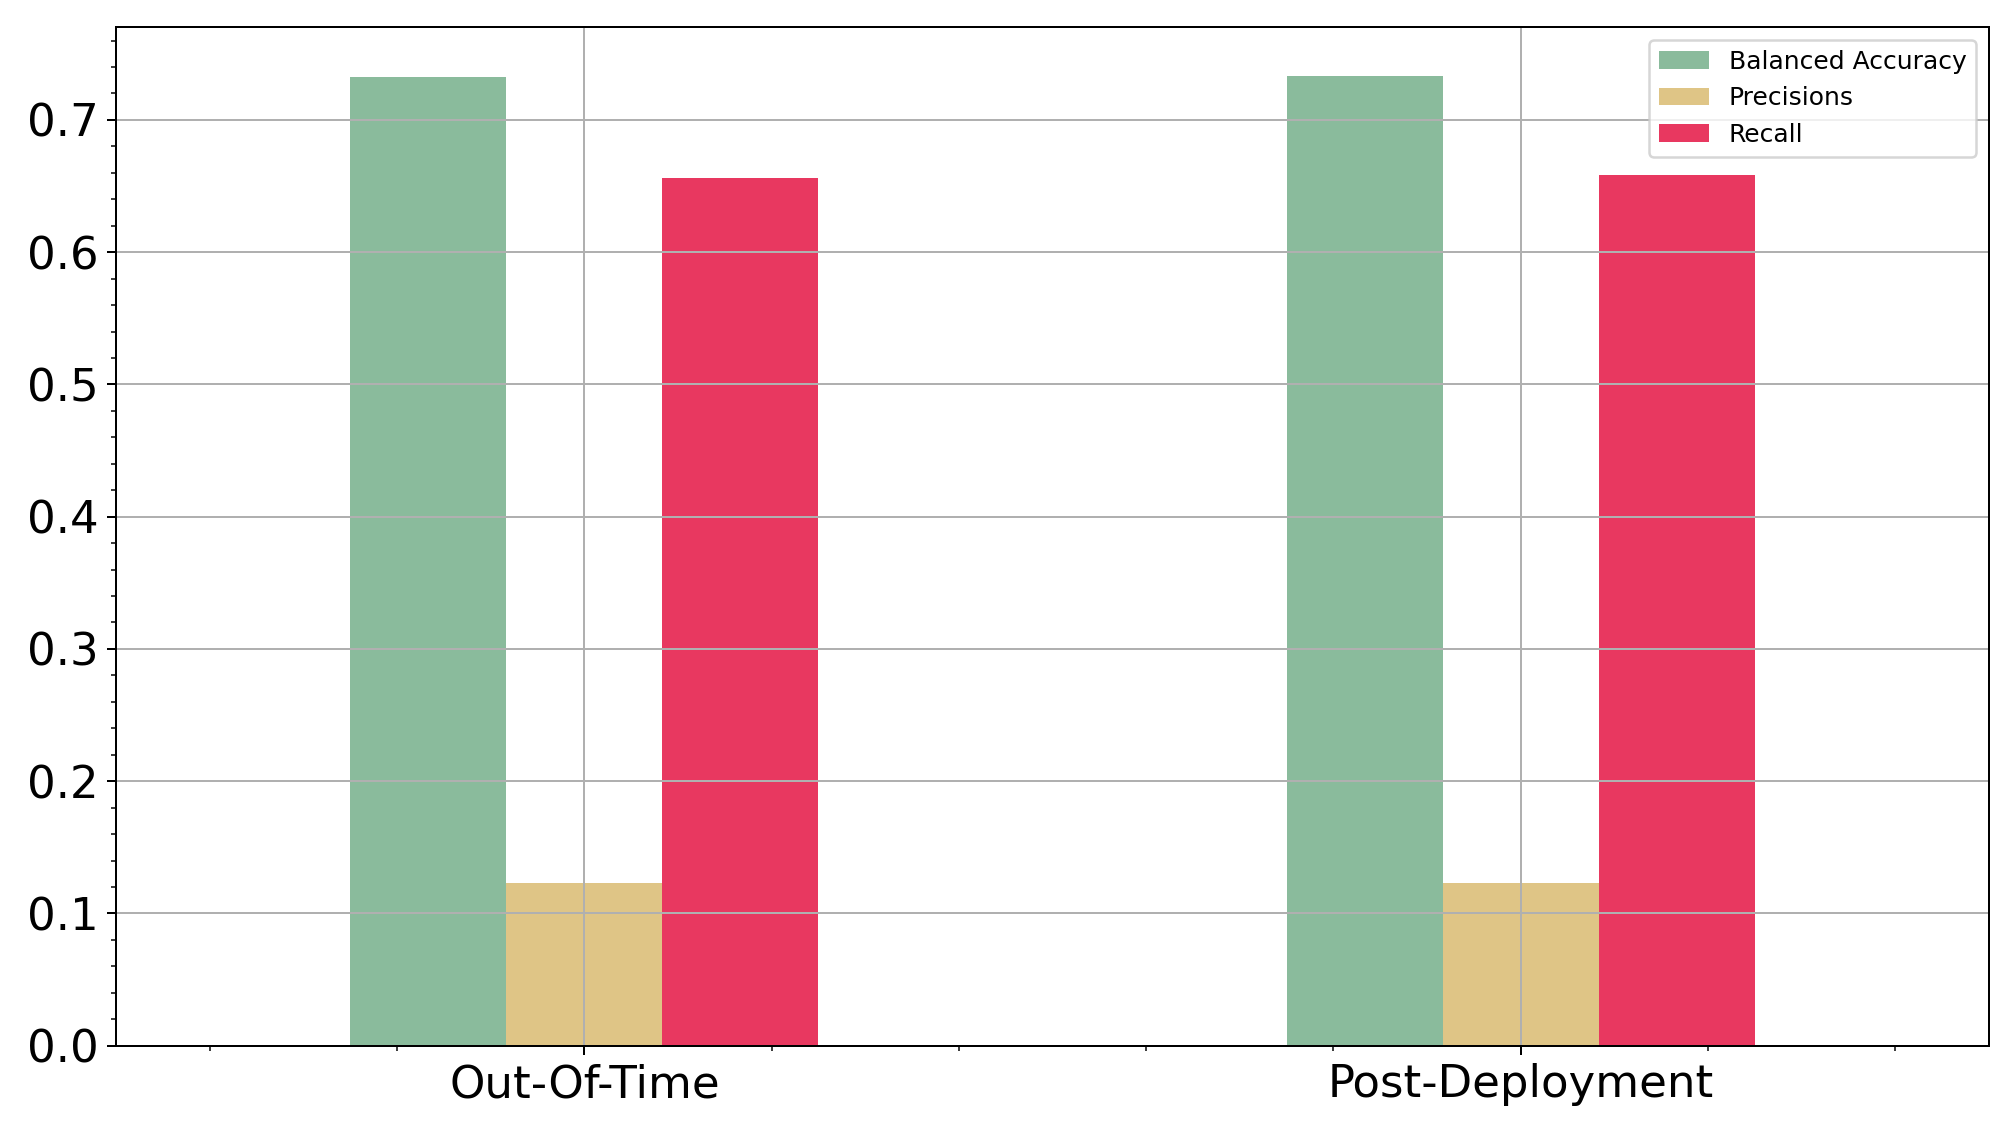
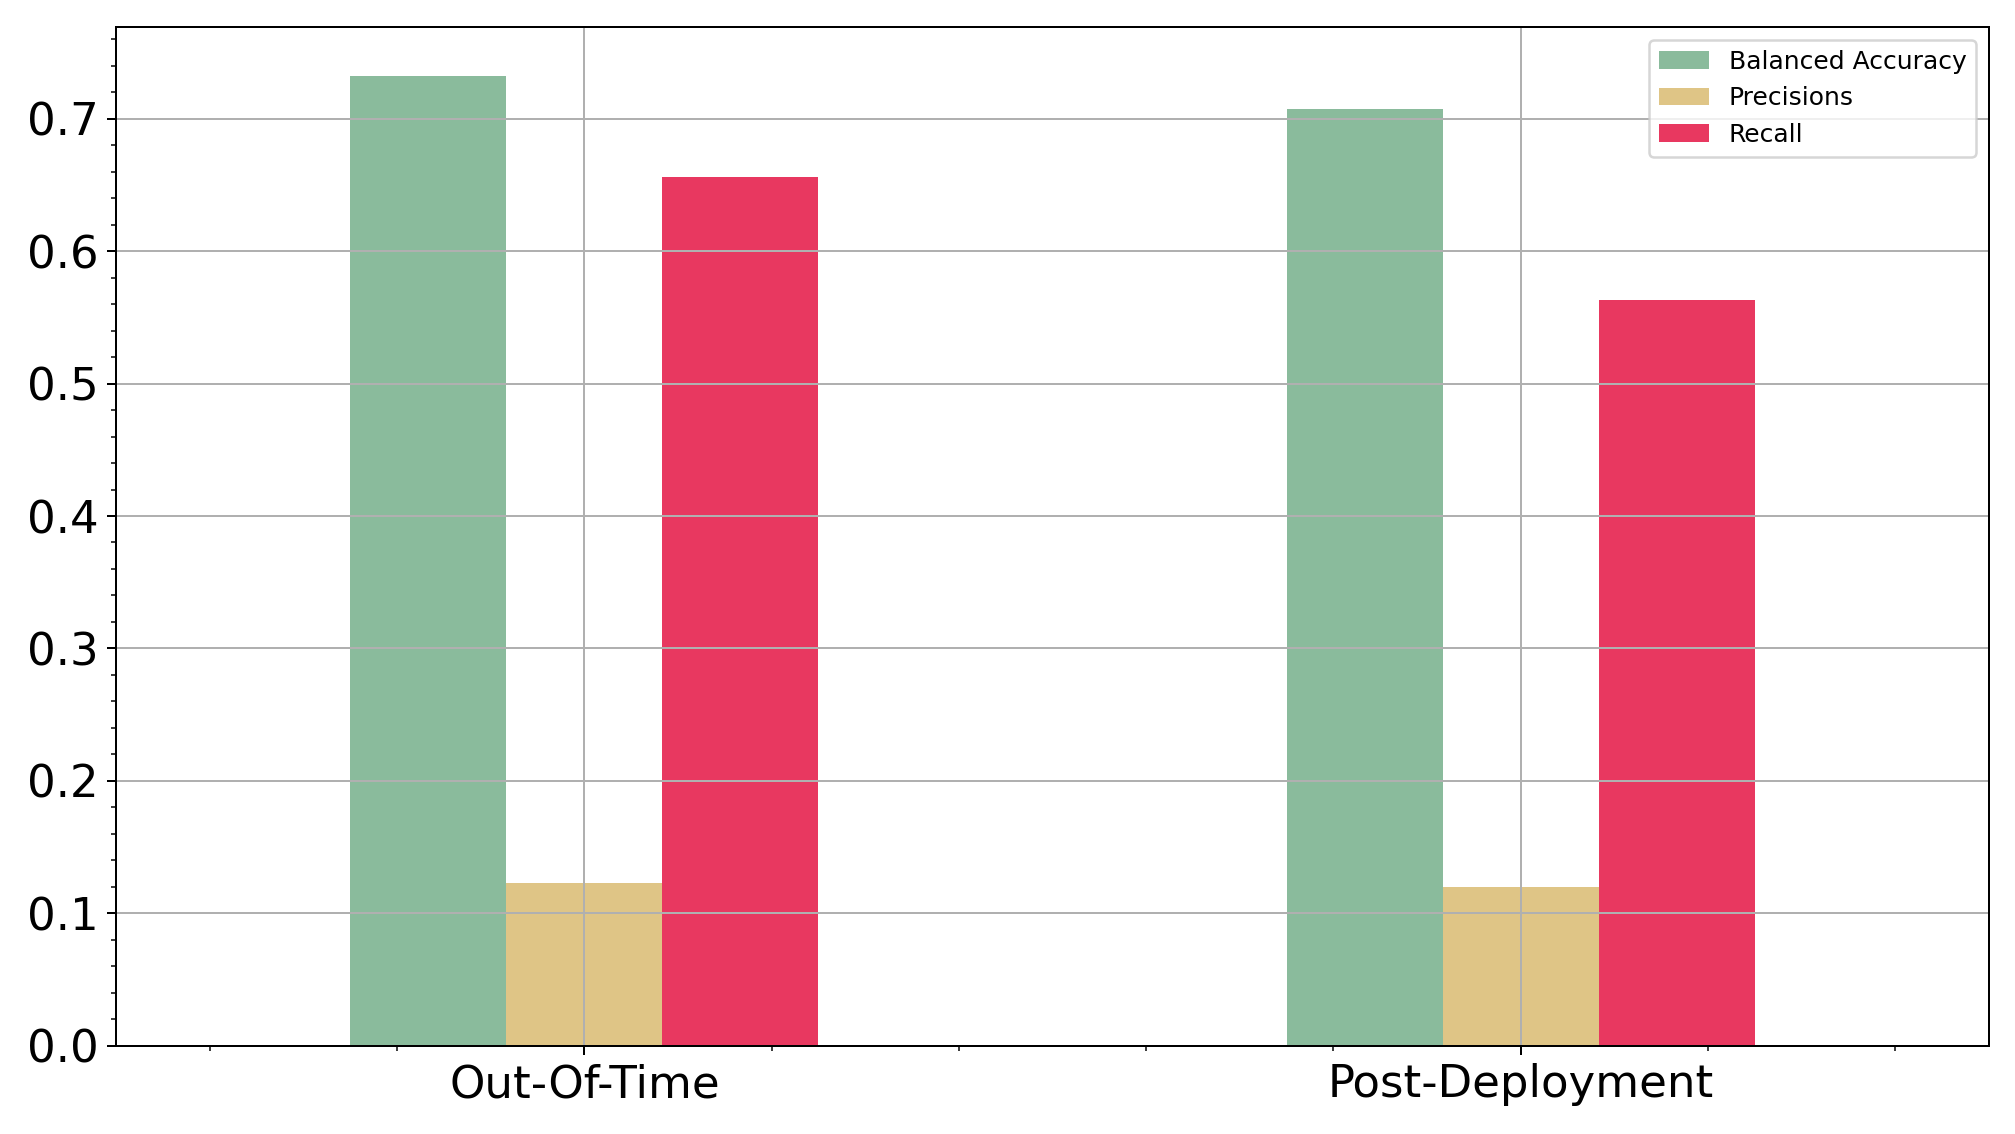
Fix deployment filtering

Changed region(s): [[0.7692, 0.1543, 0.8923, 0.2778], [0.6154, 0.0617, 0.7385, 0.1235], [0.7385, 0.7716, 0.7692, 0.8025]]

diff --git a/monzo_decision_scientist/metrics/gini_coef.py b/monzo_decision_scientist/metrics/gini_coef.py
@@ -157,7 +157,7 @@ if __name__ == '__main__':
                                                                  index_label="out-of-time")])
 
     # filter post-deployment
-    monthly_outcome_post_deployment = monthly_outcome[monthly_outcome.date.lt(np.datetime64("2020-01-01"))]
+    monthly_outcome_post_deployment = monthly_outcome[monthly_outcome.date.gt(np.datetime64("2020-01-01"))]
     application_post_deployment = application.loc[monthly_outcome_post_deployment.index.unique()]
     y_true_post_deployment = application_post_deployment.is_bad_12m.fillna(0).astype(int)
     score_1_post_deployment = application_post_deployment.model_1

diff --git a/monzo_decision_scientist/metrics/accuracies_monitoring.py b/monzo_decision_scientist/metrics/accuracies_monitoring.py
@@ -25,7 +25,7 @@ if __name__ == '__main__':
     application_out_of_time = application.loc[monthly_outcome_out_of_time.index.unique()]
 
     # filter post-deployment
-    monthly_outcome_post_deployment = monthly_outcome[monthly_outcome.date.lt(np.datetime64("2020-01-01"))]
+    monthly_outcome_post_deployment = monthly_outcome[monthly_outcome.date.gt(np.datetime64("2020-01-01"))]
     application_post_deployment = application.loc[monthly_outcome_post_deployment.index.unique()]
 
     y_true_out_of_time = application_out_of_time.is_bad_12m.fillna(0).astype(int)

diff --git a/monzo_decision_scientist/metrics/accuracies.py b/monzo_decision_scientist/metrics/accuracies.py
@@ -81,7 +81,7 @@ if __name__ == '__main__':
     plt.show()
 
     # filter post-deployment
-    monthly_outcome_post_deployment = monthly_outcome[monthly_outcome.date.lt(np.datetime64("2020-01-01"))]
+    monthly_outcome_post_deployment = monthly_outcome[monthly_outcome.date.gt(np.datetime64("2020-01-01"))]
     application_post_deployment = application.loc[monthly_outcome_post_deployment.index.unique()]
     y_true_post_deployment = application_post_deployment.is_bad_12m.fillna(0).astype(int)
     score_1_post_deployment = application_post_deployment.model_1
